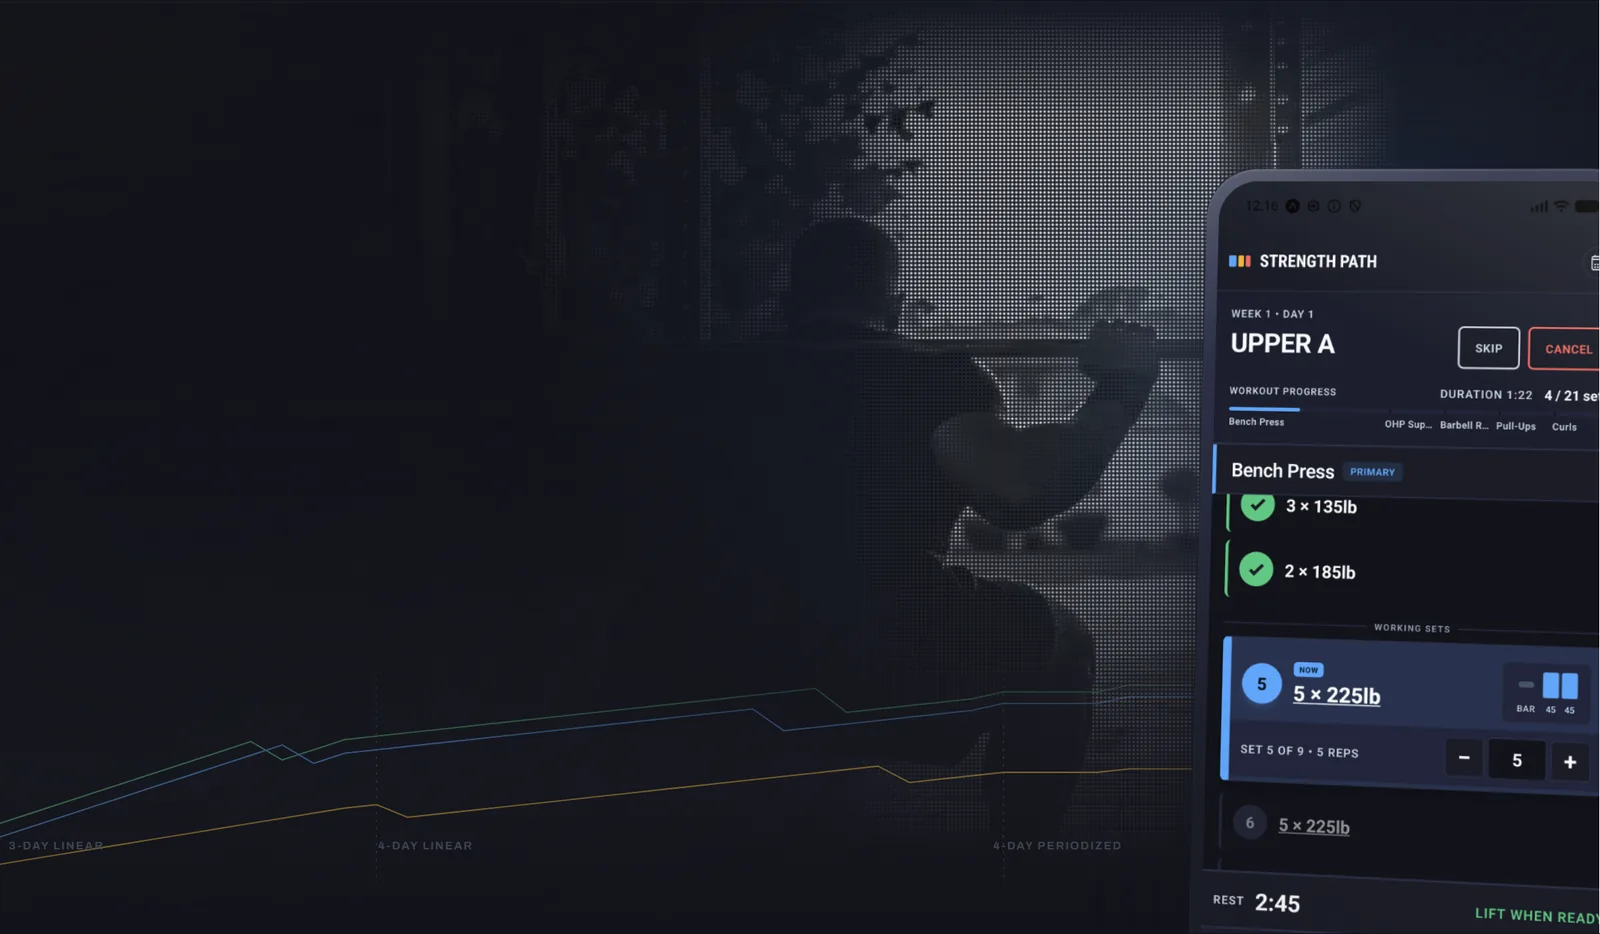
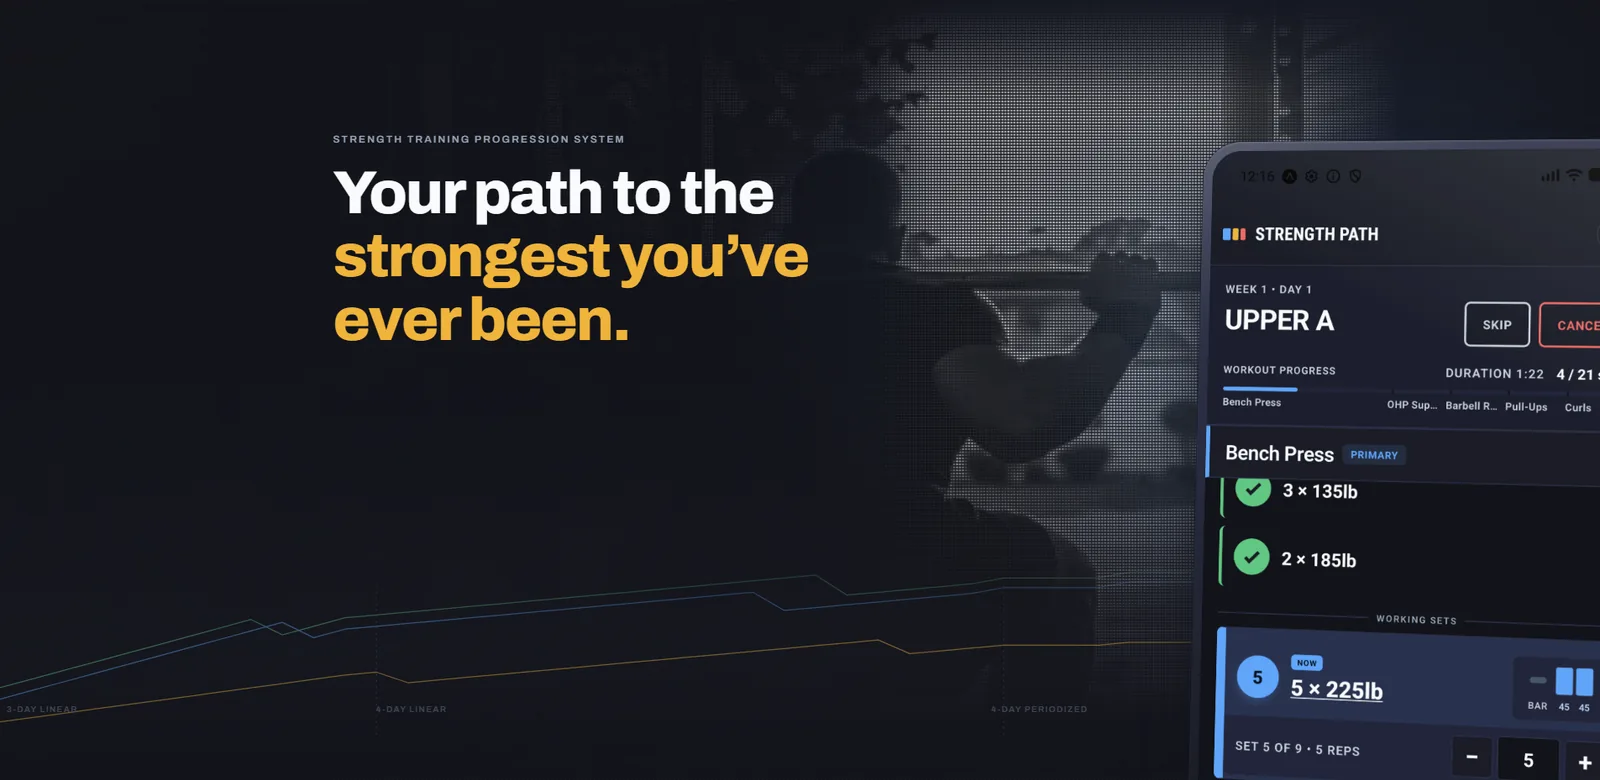
polish: flush commas, scroll-hint fades, Strength Path headline on stage
Schibsted's tabular figures widen punctuation too, so the plate, the
timeline dates and the Now lines drop tabular-nums (counts keep it).
The phone chip strip and filter row fade at their scrolling edges. The
Strength Path stage now shows its website headline with the caption
below it. Store link labels (Google Play, App Store) are ready for when
the listing exists.

Claude-Session: https://claude.ai/code/session_014MqZfothHVsBRCkCg3tRZd

diff --git a/src/styles/portfolio.css b/src/styles/portfolio.css
@@ -1513,7 +1513,6 @@ video {
 }
 .project-plate dd {
   color: var(--secondary);
-  font-variant-numeric: tabular-nums;
   min-width: 0;
   text-wrap: pretty;
 }
@@ -1803,7 +1802,6 @@ video {
   letter-spacing: var(--track-small);
   line-height: var(--leading-small);
   color: var(--muted);
-  font-variant-numeric: tabular-nums;
   pointer-events: none;
 }
 .scale-tick::before {
@@ -2048,7 +2046,6 @@ video {
   font-weight: var(--weight-ui);
   line-height: 1.5;
   color: var(--secondary);
-  font-variant-numeric: tabular-nums;
   transition: color var(--dur-fast) var(--ease-out);
 }
 .entry-range {
@@ -2224,7 +2221,6 @@ video {
 .closing-plate dd {
   grid-column: 2;
   color: var(--secondary);
-  font-variant-numeric: tabular-nums;
   min-width: 0;
   max-width: 60ch;
   text-wrap: pretty;
@@ -2522,6 +2518,9 @@ video {
     scrollbar-width: none;
     margin: -6px calc(-1 * var(--site-pad));
     padding: 6px var(--site-pad);
+    /* The row runs off the right edge on purpose; a fade there says so. */
+    -webkit-mask-image: linear-gradient(90deg, var(--text) calc(100% - 40px), transparent);
+    mask-image: linear-gradient(90deg, var(--text) calc(100% - 40px), transparent);
   }
   .category-filter::-webkit-scrollbar {
     display: none;
@@ -2761,6 +2760,9 @@ video {
     scroll-snap-type: x mandatory;
     overscroll-behavior-x: contain;
     scrollbar-width: none;
+    /* Both edges fade: the strip scrolls either way and the active chip sits mid-way. */
+    -webkit-mask-image: linear-gradient(90deg, transparent, var(--text) 32px, var(--text) calc(100% - 32px), transparent);
+    mask-image: linear-gradient(90deg, transparent, var(--text) 32px, var(--text) calc(100% - 32px), transparent);
   }
   .reel-chips::-webkit-scrollbar {
     display: none;

diff --git a/src/utils/linkLabel.ts b/src/utils/linkLabel.ts
@@ -14,5 +14,7 @@ export function linkLabel(label: string, section: string): string {
   if (key === 'live site' || key === 'preview') return ctaLabel(section);
   if (key === 'github') return 'GitHub';
   if (key === 'devpost') return 'Devpost';
+  if (key === 'google play') return 'Google Play';
+  if (key === 'app store') return 'App Store';
   return label;
 }

diff --git a/src/content/projects/strength-path.md b/src/content/projects/strength-path.md
@@ -7,7 +7,7 @@ unpublished: true
 stack: ["React Native"]
 image: "/images/strength-path.webp"
 stageImage: "/images/strength-path-hero.webp"
-imageFocus: "70% 45%"
+imageFocus: "50% 27%"
 links:
   - label: "preview"
     href: "https://strengthpath.app/"
